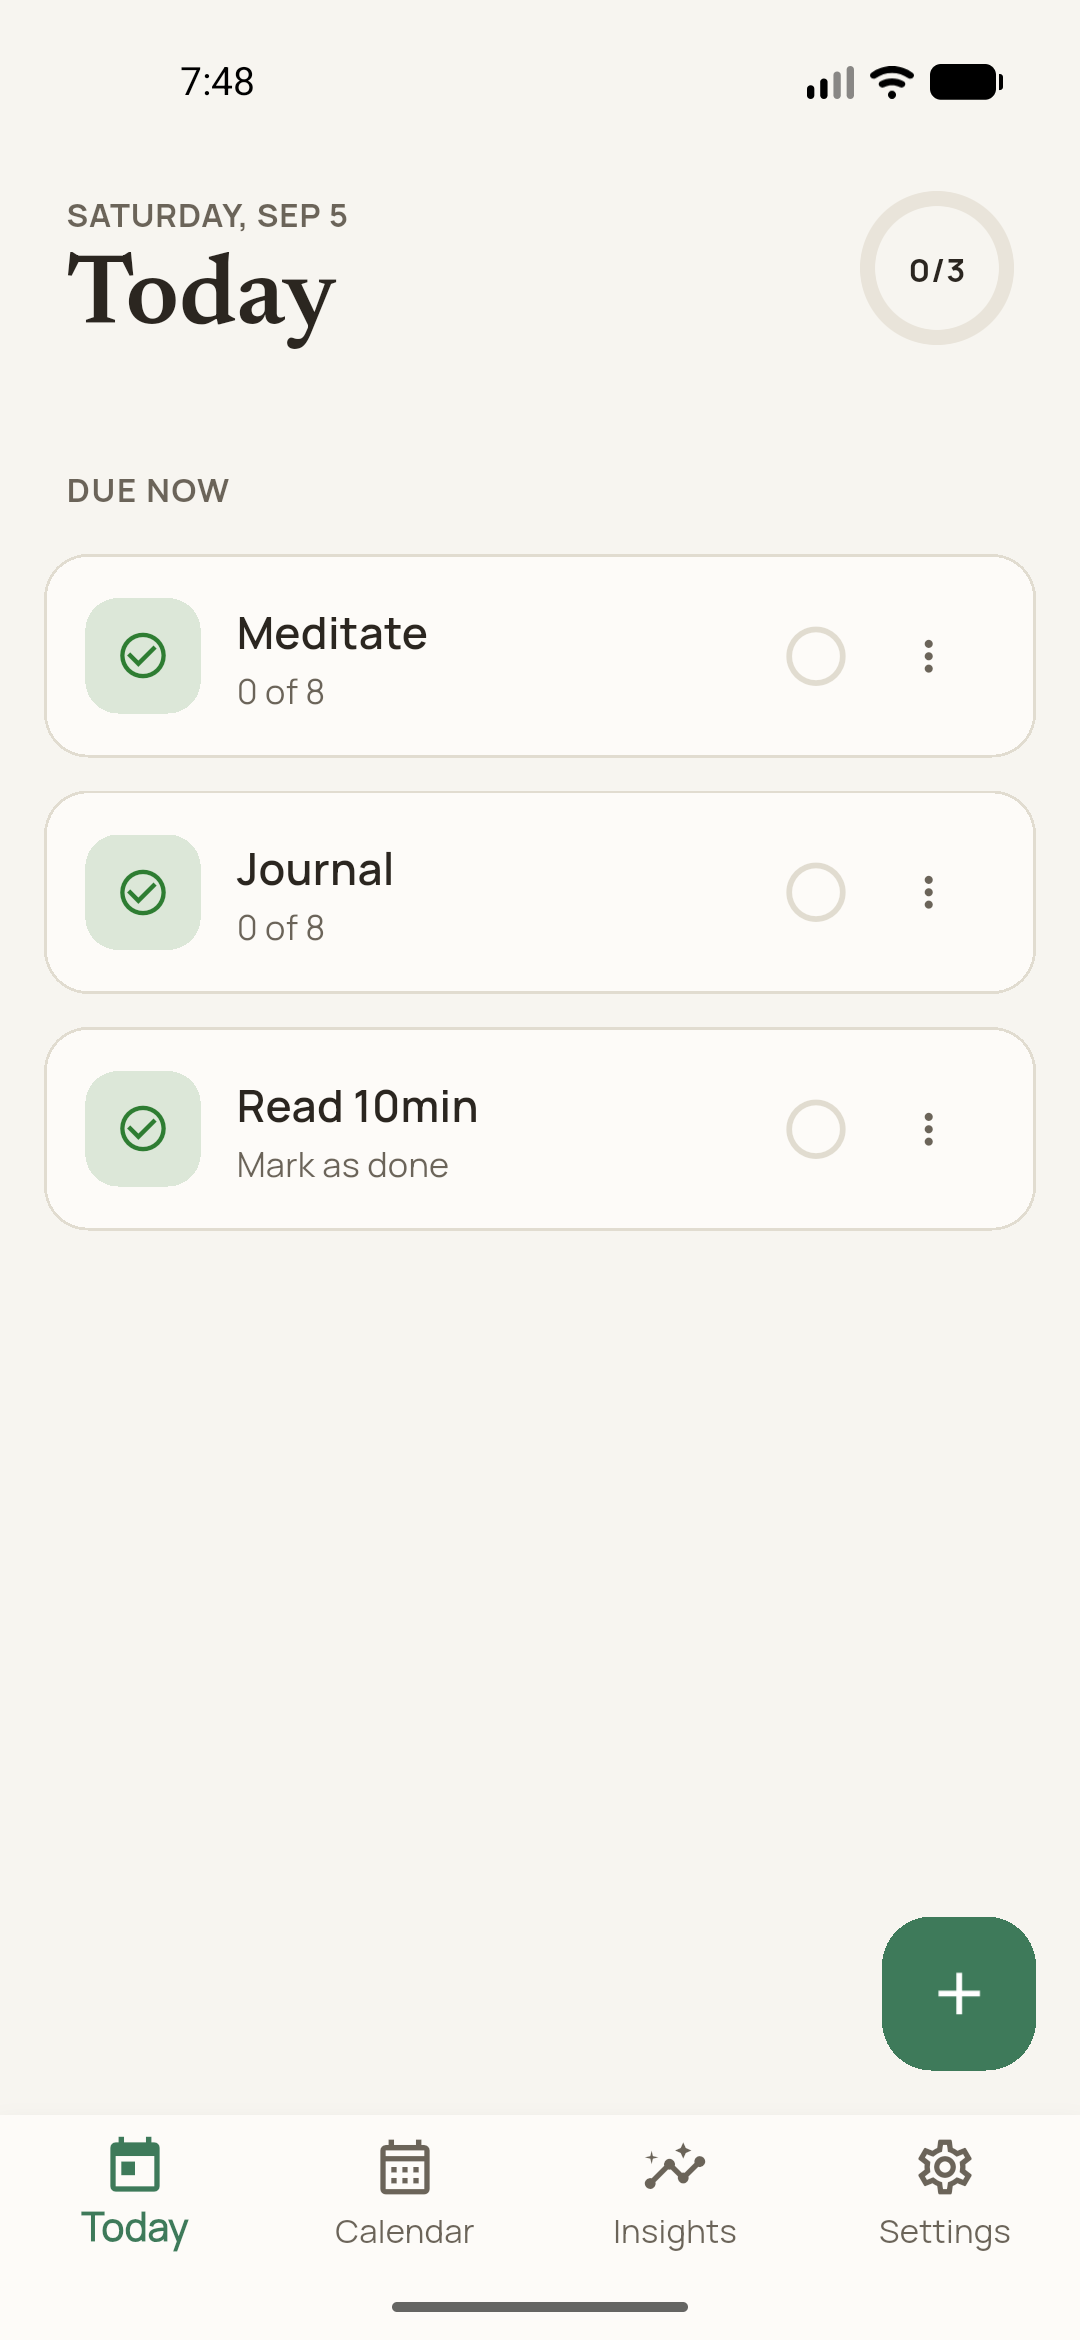
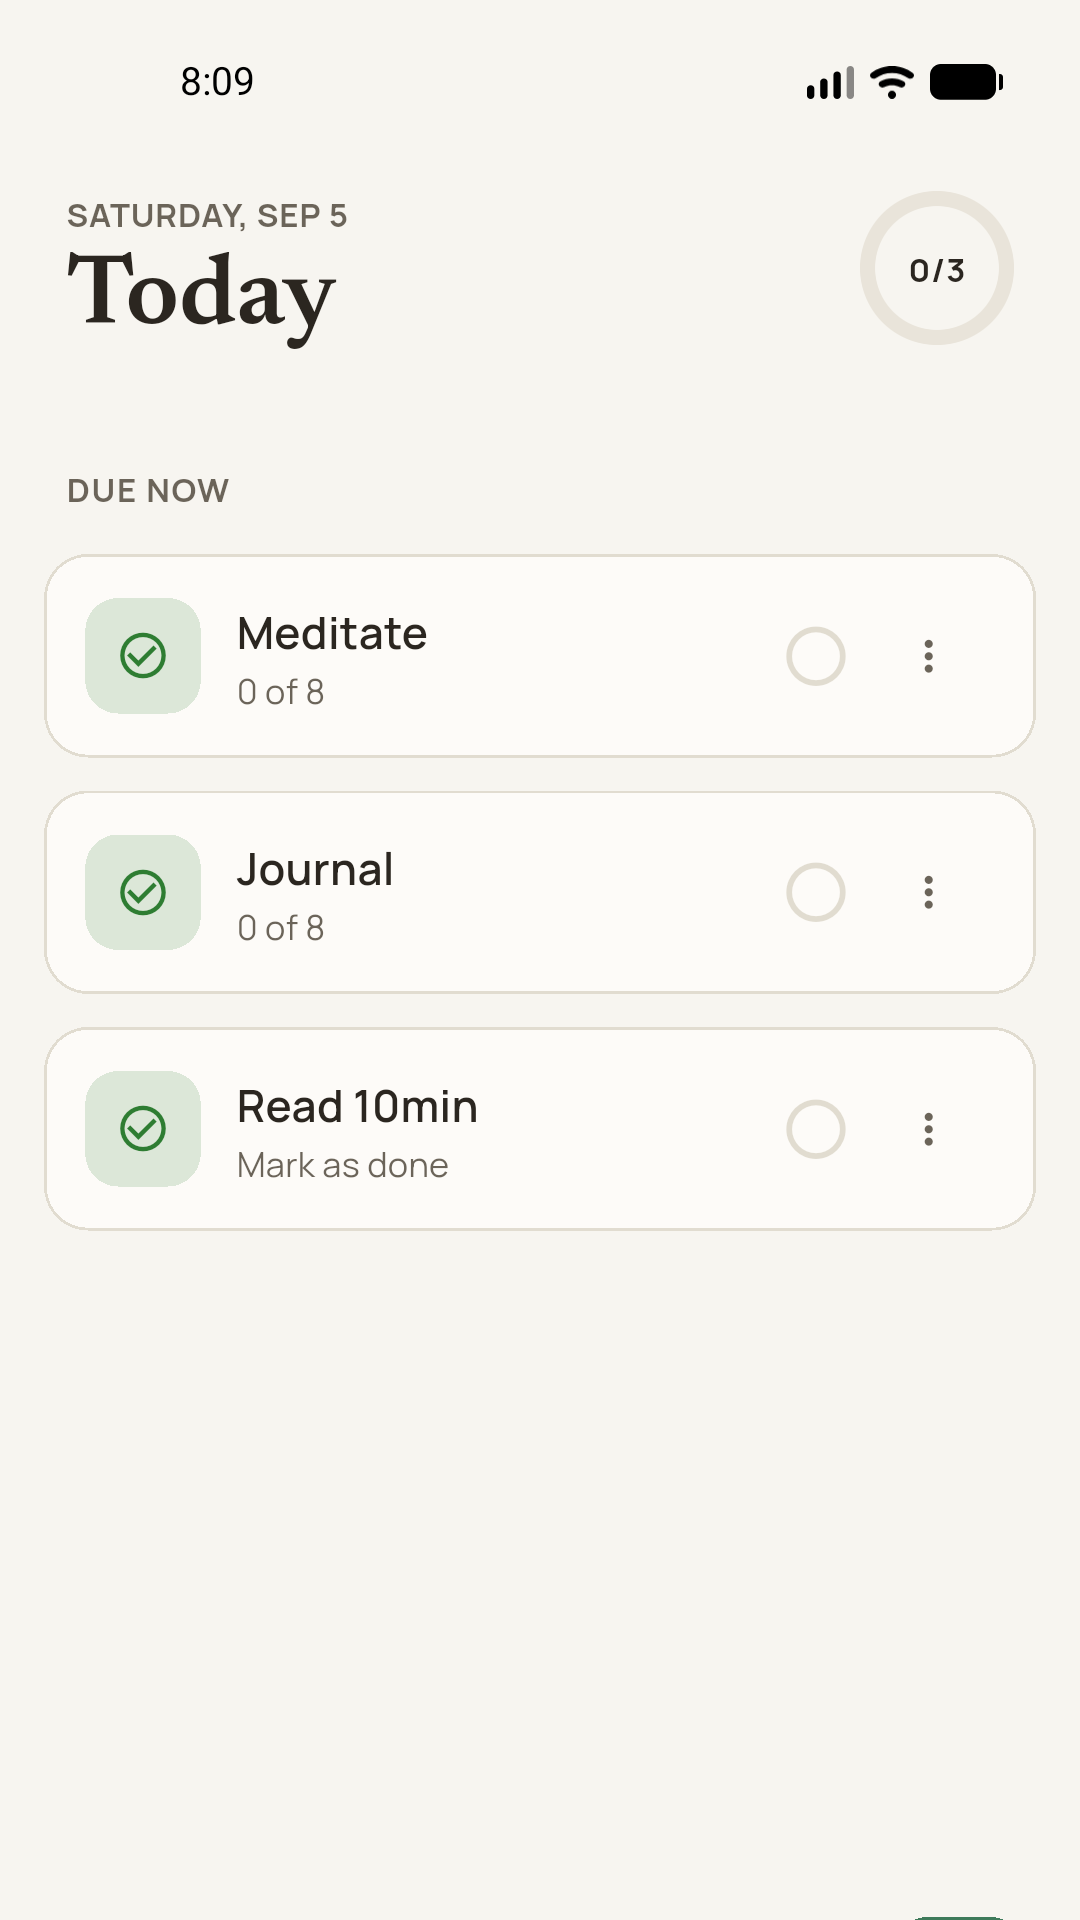
Add script to crop screenshots to exact 9:16 ratio for Play Console compliance

diff --git a/tool/crop_store_screenshots.dart b/tool/crop_store_screenshots.dart
@@ -1,0 +1,37 @@
+// Crops each phone screenshot in docs/store/screenshots/ down to an exact
+// 9:16 portrait ratio from the top - Play Console requires screenshots be
+// exactly 16:9 or 9:16, not merely within a 2:1 ratio. Most phone emulators
+// are taller than 9:16 (this project's test emulator is 1080x2340), and in
+// this app's screens the bottom nav bar and trailing blank space (not real
+// content) sit in that extra height, so keeping the top width*16/9 rows and
+// dropping the rest loses only chrome, not content - verify that still
+// holds if you add a screen whose content runs closer to the bottom.
+//
+// Run with `flutter test tool/crop_store_screenshots.dart`.
+import 'dart:io';
+
+import 'package:flutter_test/flutter_test.dart';
+import 'package:image/image.dart' as img;
+
+const _dir = 'docs/store/screenshots';
+
+void main() {
+  test('crop screenshots to exact 9:16', () {
+    for (final entity in Directory(_dir).listSync()) {
+      if (entity is! File || !entity.path.endsWith('.png')) continue;
+      final image = img.decodeImage(entity.readAsBytesSync())!;
+      final targetHeight = (image.width * 16 / 9).round();
+      if (image.height == targetHeight) continue;
+      final cropped = img.copyCrop(
+        image,
+        x: 0,
+        y: 0,
+        width: image.width,
+        height: targetHeight,
+      );
+      entity.writeAsBytesSync(img.encodePng(cropped));
+      // ignore: avoid_print
+      print('Cropped ${entity.path} to ${cropped.width}x${cropped.height}');
+    }
+  });
+}
